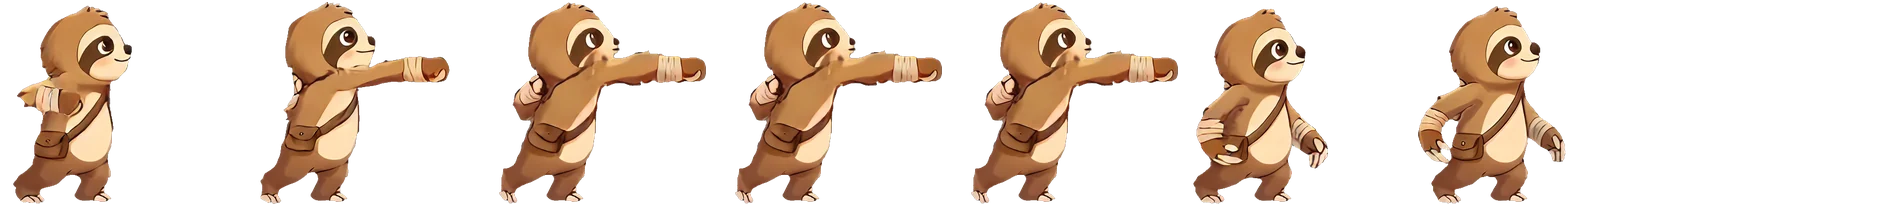
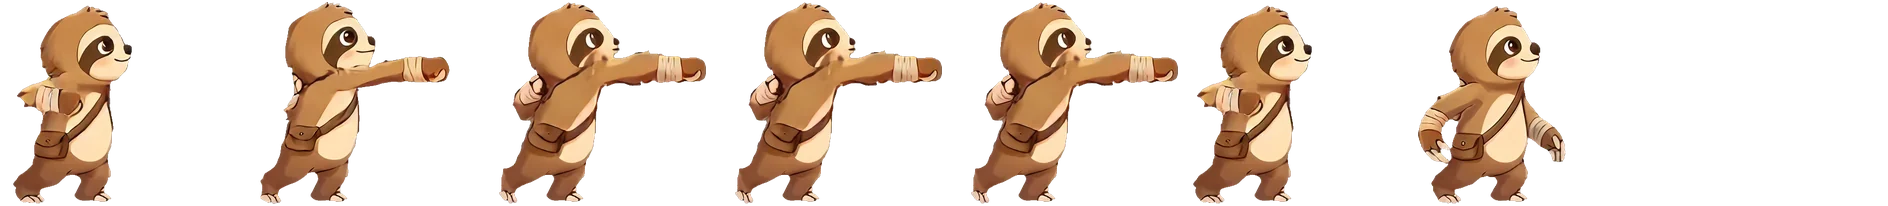
Hook: back from its reach through its own wind-up cell (it popped from the reach, turned away, to a pose at ease facing us), as the jab's did; reorder.py rewrites a clip sheet's cells in a new order
Claude-Session: https://claude.ai/code/session_01FhBbYLy1ijcGLLgc9ijzuE

Changed region(s): [[0.625, 0.0291, 0.7188, 0.8738], [0.625, 0.932, 0.6562, 0.9903]]

diff --git a/tools/art/pokeyanim/reorder.py b/tools/art/pokeyanim/reorder.py
@@ -1,0 +1,28 @@
+"""Rewrite a hero clip sheet (src/assets/hero/clips/<name>.webp, heroClipsData.ts) with its own cells in another order (pokey-anim):
+a cell may repeat. The hook's way back popped from its reach, turned away, to a pose at ease facing us; its own wind-up cell now
+carries it back, as the jab's did.
+
+    python3 -I tools/art/pokeyanim/reorder.py move-hook 0,1,2,3,4,0,6
+"""
+import json, re, sys
+from pathlib import Path
+from PIL import Image
+
+ROOT = Path(__file__).resolve().parents[3]
+name, order = sys.argv[1], [int(v) for v in sys.argv[2].split(',')]
+data_p = ROOT / 'src/game/heroClipsData.ts'
+txt = data_p.read_text()
+m = re.search(r'HERO_CLIPS: Record<string, HeroClip> = (\{.*?\});', txt, re.S)
+clips = json.loads(m.group(1))
+c = clips[name]
+src = Image.open(ROOT / f'src/assets/hero/clips/{name}.webp').convert('RGBA')
+cell = lambda i: src.crop(((i % c['cols']) * c['w'], (i // c['cols']) * c['h'], (i % c['cols'] + 1) * c['w'], (i // c['cols'] + 1) * c['h']))
+cells = [cell(i) for i in order]
+rows = (len(cells) + c['cols'] - 1) // c['cols']
+out = Image.new('RGBA', (c['w'] * c['cols'], c['h'] * rows), (0, 0, 0, 0))
+for k, im in enumerate(cells):
+    out.paste(im, ((k % c['cols']) * c['w'], (k // c['cols']) * c['h']))
+out.save(ROOT / f'src/assets/hero/clips/{name}.webp', 'WEBP', quality=86, method=6)
+c['n'] = len(cells)
+data_p.write_text(txt[:m.start(1)] + json.dumps(clips, indent=1) + txt[m.end(1):])
+print(name, c)
